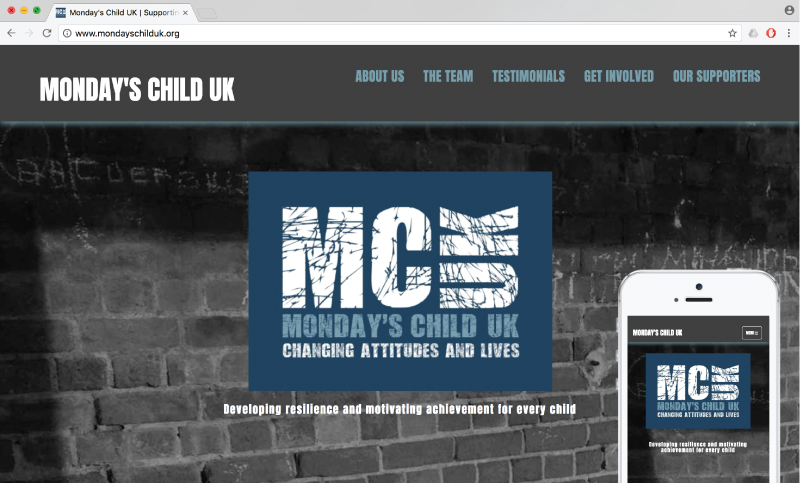
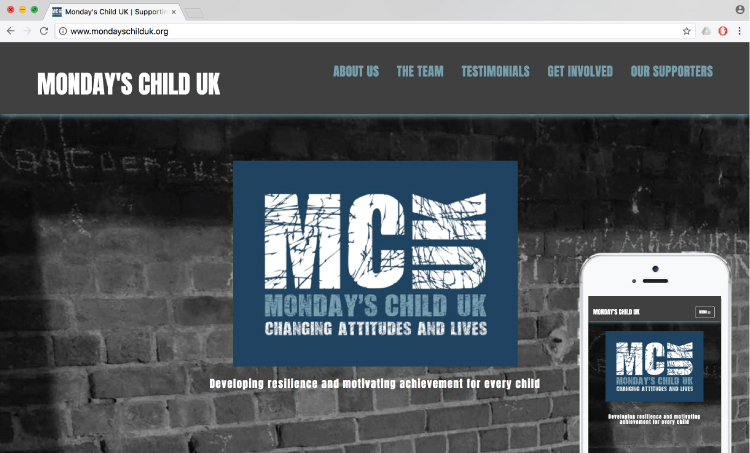
made work project visuals responsive

diff --git a/work/harmony.html b/work/harmony.html
@@ -86,17 +86,17 @@
                     <div class="col-sm-10 col-sm-offset-1 text-center">
                         <h1 class="title">Harmony Vineyard</h1>
                         <h2 class="description">Company logo design and production for a South-East England vineyard of sparkling wine</h2>
-                        <img src="../img/harmony_vineyard/hv-signage.jpg" alt="Image of Harmony Vineyard Logo on vineyard signage">
+                        <img src="../img/harmony_vineyard/hv-signage.jpg" class="img-responsive" alt="Image of Harmony Vineyard Logo on vineyard signage">
                     </div>
                     <div class="col-sm-10 col-sm-offset-1 text-left">
                         <h3>The Brief</h3>
                         <p>This South-east England based sparkling wine vineyard required a new logo, with a view to using it on business stationary, signage and bottling labels in the future. The client was keen on playing with the themes of music, grapes, bubbles and wanted a modern but sophisticated look in keeping with the target market for their British sparkling wine product.</p>
                         <h3>The Process</h3>
                         <p>In the designs I trialled different ways of incorporating treble and bass clef signatures, staves and notes as well as bubbles styled in a bunch of grapes. Different fonts were used and after the development process was undertaken in 2 distinct phases, both followed by a round of feedback culminating in the final design. Below are a selection of designs from the 2 phases.</p>
-                        <img src="../img/harmony_vineyard/hv-alternatives.jpg" alt="Alternative Harmony Vineyard logos">
+                        <img src="../img/harmony_vineyard/hv-alternatives.jpg" class="img-responsive" alt="Alternative Harmony Vineyard logos">
                         <h3>The Product</h3>
                         <p>The finished logo hs since been used to produce stationary as well as an onsite signage for the vineyard.</p>
-                        <img src="../img/harmony_vineyard/hv-final.jpg" alt="Final Harmony Vineyard logos displayed on business cards and signage">
+                        <img src="../img/harmony_vineyard/hv-final.jpg" class="img-responsive" alt="Final Harmony Vineyard logos displayed on business cards and signage">
                     </div>
                 </div>
             </div>

diff --git a/work/door2door.html b/work/door2door.html
@@ -86,17 +86,17 @@
                     <div class="col-sm-10 col-sm-offset-1 text-center">
                         <h1 class="title">Door 2 Door Coaches</h1>
                         <h2 class="description">Company logo design and production for a Brighton based private hire coach company</h2>
-                        <img src="../img/door2door/d2d-tab.jpg" alt="Image of Door 2 Door coaches logo on website and business cards">
+                        <img src="../img/door2door/d2d-tab.jpg" class="img-responsive" alt="Image of Door 2 Door coaches logo on website and business cards">
                     </div>
                     <div class="col-sm-10 col-sm-offset-1 text-left">
                         <h3>The Brief</h3>
                         <p>This Brighton coach hire company needed a new logo: this was predominantly to display on their new website, but also with a view to printed business stationary, and something that could be developed into a coach wrap in a future round of development. The client liked the idea of 3D text and the colour scheme red, black and white.</p>
                         <h3>The Process</h3>
                         <p>In the designs I trialled different types of 3D text as well as some 2D comparisons and I included plays on doors within a number of designs. The development process was undertaken in 2 distinct phases, both followed by a round of feedback culminating in the final design. Below are a selection of designs from the 2 phases.</p>
-                        <img src="../img/door2door/d2d-alternatives.jpg" alt="Image of alternative logo design for Door 2 Door Coaches">
+                        <img src="../img/door2door/d2d-alternatives.jpg" class="img-responsive" alt="Image of alternative logo design for Door 2 Door Coaches">
                         <h3>The Product</h3>
                         <p>The finished logo product was made available in 3 colour schemes, on each a white, black and red background, fit for a multitude of uses.</p>
-                        <img src="../img/door2door/d2d-final.jpg" alt="Image of Door 2 Door logo on business cards and clipart bus">
+                        <img src="../img/door2door/d2d-final.jpg" class="img-responsive" alt="Image of Door 2 Door logo on business cards and clipart bus">
                     </div>
                 </div>
             </div>

diff --git a/work/awesomebrighton.html b/work/awesomebrighton.html
@@ -84,7 +84,7 @@
                     <div class="col-sm-10 col-sm-offset-1 text-center">
                         <h1 class="title">Awesome Brighton Project</h1>
                         <h2 class="description">JavaScript app built using google maps and wikipedia APIs illustrating the awesomeness that is Brighton</h2>
-                        <img src="../img/awesome_brighton/ab-tab1.jpg" alt="Image of first page visual of Awesome Brighton website also shown on mobile screen">
+                        <img src="../img/awesome_brighton/ab-tab1.jpg" class="img-responsive" alt="Image of first page visual of Awesome Brighton website also shown on mobile screen">
                     </div>
                     <div class="col-sm-10 col-sm-offset-1 text-left">
                         <h3>The Brief</h3>
@@ -93,7 +93,7 @@
                         <p>The site was designed to meet the course criteria whilst also showing off the awesomeness that is my home town of Brighton. The knockout framework was used with an MVVM development structure, and APIs integrated to create an source of information which would remain up to date by sourcing information from external vendors.</p>
                         <h3>The Product</h3>
                         <p>I am pleased with the final product and that it fulfilled the course criteria, however there are changes I would like to make. The site could benefit from further development coming from a user experience perspective, building in options for the user to select from, making the experience more user led rather than passively informative.</p>
-                        <img src="../img/awesome_brighton/ab-scroll.jpg" alt="Image of Awesome Brighton full scroll from top to bottom of a single page">
+                        <img src="../img/awesome_brighton/ab-scroll.jpg" class="img-responsive" alt="Image of Awesome Brighton full scroll from top to bottom of a single page">
                         <h4 class="weblink"><a href="http://www.awesomebrighton.co.uk/" target="_blank" class="orange">View the website</a></h4>
                     </div>
                 </div>

diff --git a/work/sfaca.html b/work/sfaca.html
@@ -86,7 +86,7 @@
                     <div class="col-sm-10 col-sm-offset-1 text-center">
                         <h1 class="title">Shehzad Farrukh - SF ACA</h1>
                         <h2 class="description">Website design and build project for a London based accountancy firm.</h2>
-                        <img src="../img/sfaca/sfaca-tab.jpg" alt="Image of first page visual of SFACA website also shown on mobile screen">
+                        <img src="../img/sfaca/sfaca-tab.jpg" class="img-responsive" alt="Image of first page visual of SFACA website also shown on mobile screen">
                     </div>
                     <div class="col-sm-10 col-sm-offset-1 text-left">
                         <h3>The Brief</h3>
@@ -94,9 +94,8 @@
                         <h3>The Process</h3>
                         <p>We agreed upon a scrolling website design. Through exisiting site analysis and understanding the business image, we extrapolated the themes of city, approachable, efficient, clean and warm. Visuals were sourced and approved. The site was built and accepted as is by a very happy client.</p>
                         <h3>The Product</h3>
-                        <p>
-                            I have a hosting agreement with this client including continuity of their domain email through gmail. I have advised on their marketing strategy moving forwards.</p>
-                        <img src="../img/sfaca/sfaca-scroll.jpg" alt="Image of SFACA full scrolling website top to bottom">
+                        <p>I provide a hosting agreement with this client including continuity of their domain email through gmail. I have advised on their marketing strategy moving forwards.</p>
+                        <img src="../img/sfaca/sfaca-scroll.jpg" class="img-responsive" alt="Image of SFACA full scrolling website top to bottom">
                         <h4 class="weblink"><a href="https://www.sfaca.co.uk/" target="_blank" class="orange">View the website</a></h4>
                     </div>
                 </div>

diff --git a/work/mondays-child.html b/work/mondays-child.html
@@ -85,7 +85,7 @@
                     <div class="col-sm-10 col-sm-offset-1 text-center">
                         <h1 class="title">Mondays Child UK</h1>
                         <h2 class="description">Website design and build project for a drama based intervention charity</h2>
-                        <img src="../img/mondays_child/mc-tab.jpg" alt="Image of first page visual of Monday's Child website also shown on mobile screen">
+                        <img src="../img/mondays_child/mc-tab.jpg" class="img-responsive" alt="Image of first page visual of Monday's Child website also shown on mobile screen">
                     </div>
                     <div class="col-sm-10 col-sm-offset-1 text-left">
                         <h3>The Brief</h3>
@@ -94,7 +94,7 @@
                         <p>Through client discovery sessions I came to understand the needs of the client, and together we worked out a brief which suited their requirements. We agreed layout, style and implementation before the buld commenced.</p>
                         <h3>The Product</h3>
                         <p>This scrolling website is a comtemporary swing on their original site, retaining the urban edgy feel, and using techniques such as collapsible panels to make content more manageable for the user to digest.</p>
-                        <img src="../img/mondays_child/mc-scroll.jpg" alt="Image of Monday's Child full scrolling website top to bottom">
+                        <img src="../img/mondays_child/mc-scroll.jpg" class="img-responsive" alt="Image of Monday's Child full scrolling website top to bottom">
                         <h4 class="weblink"><a href="http://www.mondayschilduk.org/" target="_blank" class="orange">View the website</a></h4>
                     </div>
                 </div>

diff --git a/work/essential-blends.html b/work/essential-blends.html
@@ -94,7 +94,7 @@
                     <div class="col-sm-10 col-sm-offset-1 text-center">
                         <h1 class="title">Essential Blends</h1>
                         <h2 class="description">Website design and build project for a Brighton skincare and holistic healing company</h2>
-                        <img src="../img/essential_blends/eb-tab.jpg" alt="Image of first page visual of essential blends website also shown on mobile screen">
+                        <img src="../img/essential_blends/eb-tab.jpg" class="img-responsive" alt="Image of first page visual of essential blends website also shown on mobile screen">
                     </div>
                     <div class="col-sm-10 col-sm-offset-1 text-left">
                         <h3>The Brief</h3>
@@ -103,7 +103,7 @@
                         <p>Through discovery sessions I came to understand her business needs and requirements. We agreed a theme, and broad spectrum layout and content, the copy of which I edited to suit the layout.</p>
                         <h3>The Product</h3>
                         <p>The final product meets the brief and is able to be fully extended in the next round of development.</p>
-                        <img src="../img/essential_blends/eb-scroll.jpg" alt="Image of essential blends full scrolling website top to bottom">
+                        <img src="../img/essential_blends/eb-scroll.jpg" class="img-responsive" alt="Image of essential blends full scrolling website top to bottom">
                         <h4 class="weblink"><a href="http://www.myessentialblends.co.uk/" target="_blank" class="orange">View the website</a></h4>
                     </div>
                 </div>

diff --git a/work/cv.html b/work/cv.html
@@ -86,7 +86,7 @@
                     <div class="col-sm-10 col-sm-offset-1 text-center">
                         <h1 class="title">Online CV</h1>
                         <h2 class="description">Website design and build of an online version of my CV</h2>
-                        <img src="../img/cv/cv-tab.jpg" alt="Image of first page visual of my online CV website also shown on mobile screen">
+                        <img src="../img/cv/cv-tab.jpg" class="img-responsive" alt="Image of first page visual of my online CV website also shown on mobile screen">
                     </div>
                     <div class="col-sm-10 col-sm-offset-1 text-left">
                         <h3>The Brief</h3>
@@ -95,7 +95,7 @@
                         <p>The data of the site is stored in JSON and is used to dynamically populate the DOM for ease of updating.</p>
                         <h3>The Product</h3>
                         <p>This site does what it is meant to do, however I would like to revisit the site and reorganise the data based on a more standard MVC development model as it is not working at peak functionailty in its current format.</p>
-                        <img src="../img/cv/cv-scroll.jpg" alt="Image of my online CV full scrolling website top to bottom">
+                        <img src="../img/cv/cv-scroll.jpg" class="img-responsive" alt="Image of my online CV full scrolling website top to bottom">
                         <h4 class="weblink"><a href="../projects/cv/index.html" target="_blank" class="orange">View the website</a></h4>
                     </div>
                 </div>
